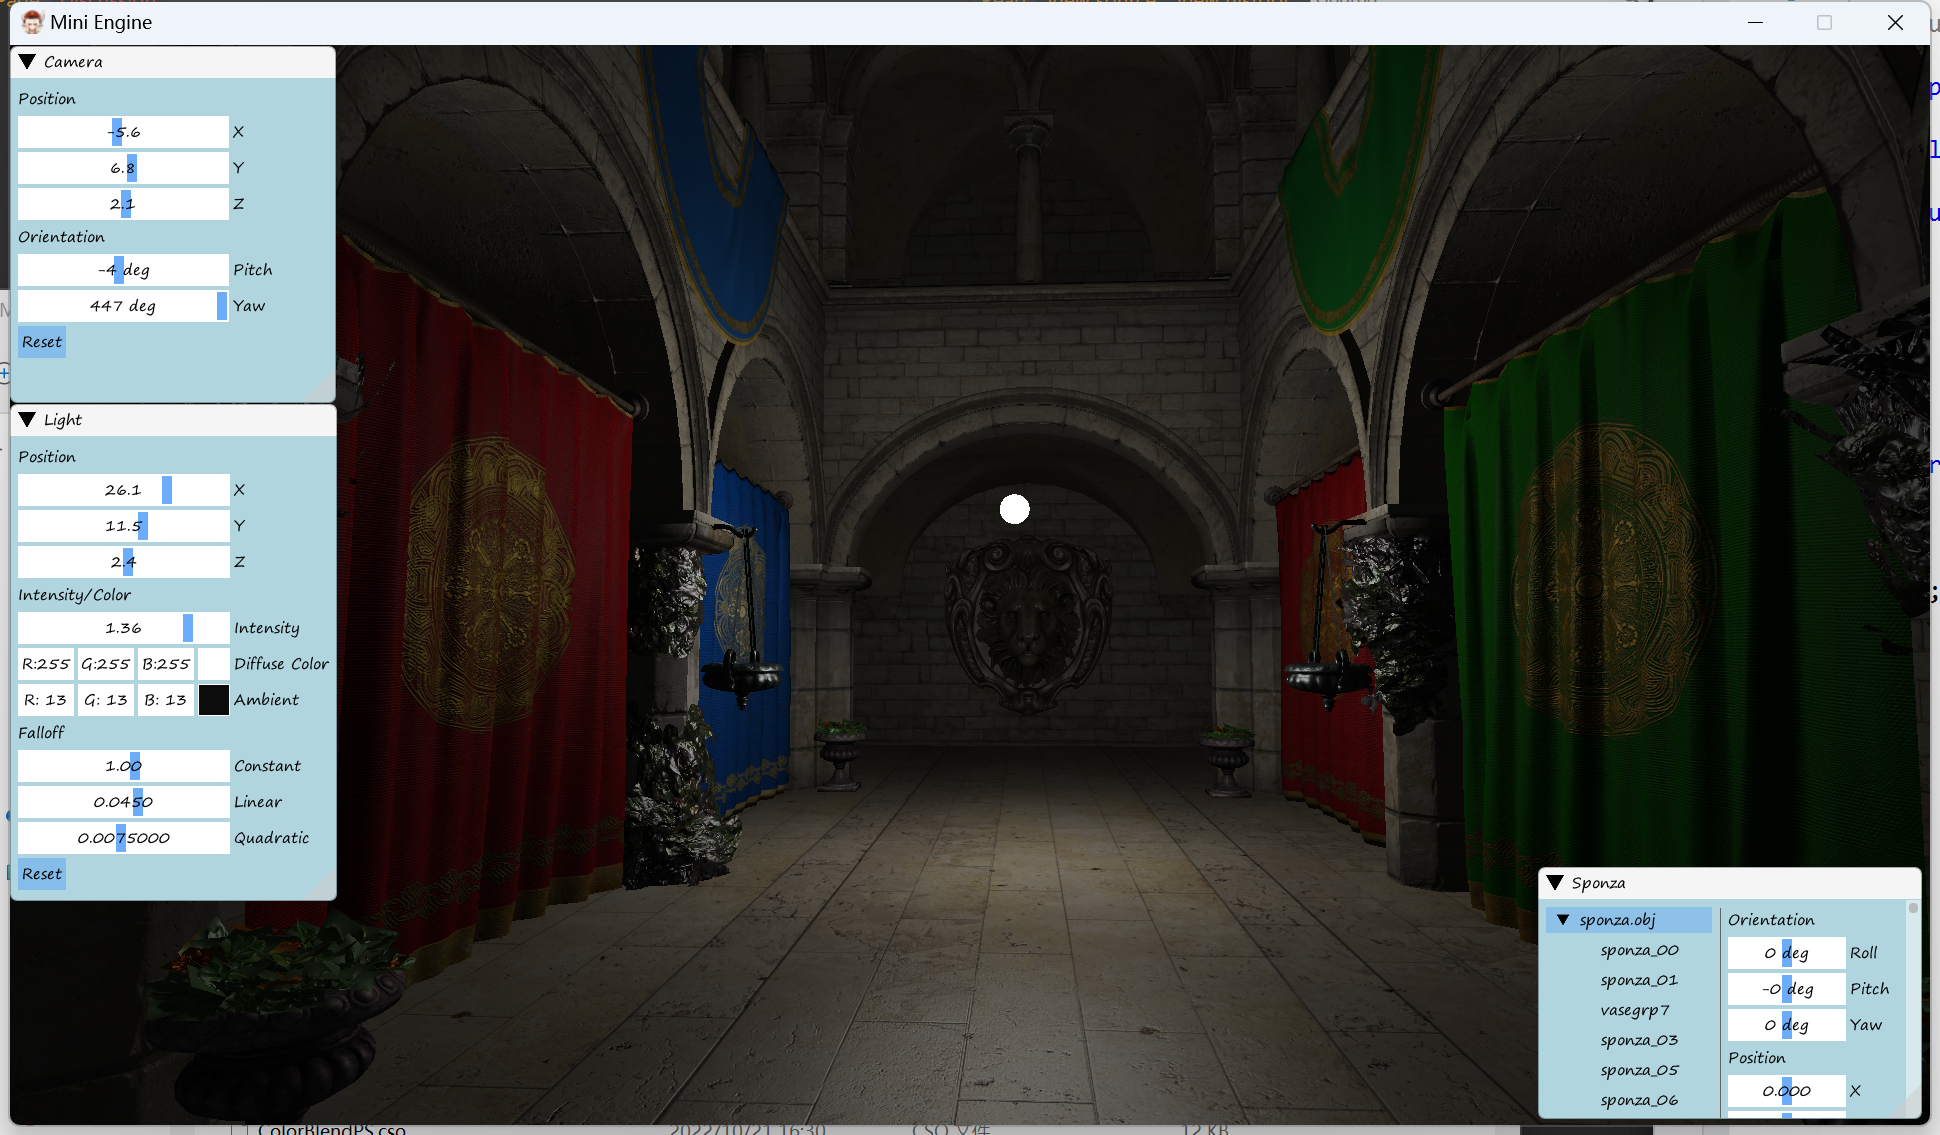
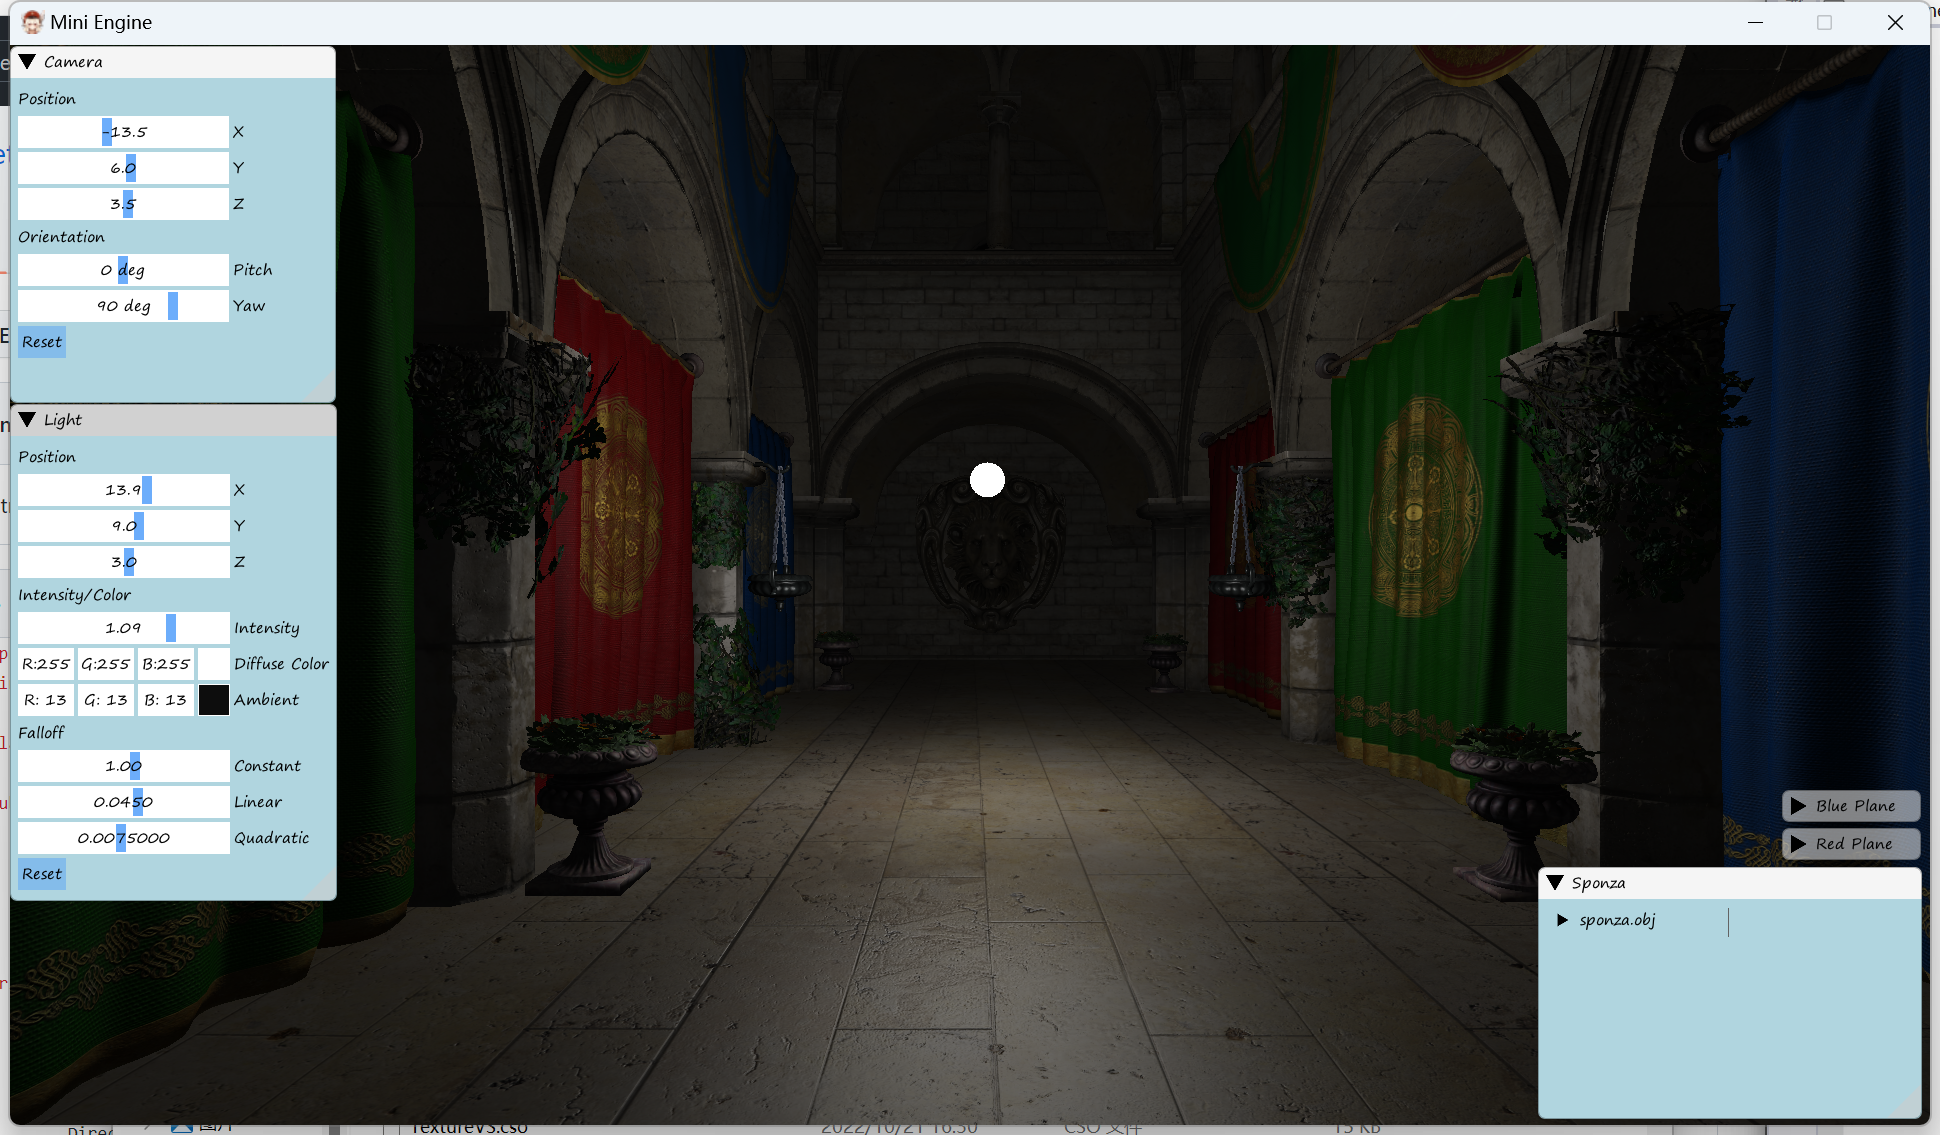
alpha test

diff --git a/_posts/2022-10-27-DirectXBeginner3.md b/_posts/2022-10-27-DirectXBeginner3.md
@@ -99,7 +99,36 @@ tags: [DirectX11]
 
 ## Alpha Blending
 
-- 添加一个 Bindable 类 Blender，保存一个 BlendState
+- 添加一个 Bindable 类 Blender，保存一个 BlendState，使用 CreateBlendState 创建 BlendState，使用 OMSetBlendState 绑定
+- 在绘制完全透明物体时需要做 alpha test，在 Pixel Shader 使用 clip 可以在值为负数时舍弃掉该片段的绘制，这里判断 alpha 小于 0.1 就舍弃掉，为什么不直接设为 1 呢，因为当相机较远时会有一些片段看不到了，这里猜测的原因是因为 MipMap 混合了，所以本来不透明的片段也变成透明的了
+
+```GLSL
+clip(dtex.a < 0.1f ? -1 : 1);
+```
+
+![](../images/2022.10.27/18.png)
+
+- 对于一些双面的物体，需要关掉 Backface Cull，这个阶段需要通过 Rasterizer 来控制，使用 CreateRasterizerState 创建一个 Rasterizer State，如果我们位于背面，那么视线方向和法线方向的 Dot 是大于 0 的，我们需要将 Normal 反向
+- Shader 中也可以使用 #ifdef 
+- 在做 Alpha 混合的时候需要注意绘制顺序，不然就会出现下面红色完全被蓝色遮盖的情况
+
+![](../images/2022.10.27/19.png)
+
+![](../images/2022.10.27/20.png)
+
+- 在之前的实现中，加载图片是很慢的，如果图片资源比较多，那么程序启动需要花费很长一段时间，这里可以用 DirectXTex 来加载纹理提升效率
+
+## Dynamic Constant Buffer
+
+- 作者构建了一个 Dynamic Constant Buffer，这样可以指定 Buffer 的类型和成员参数名，帮助灵活地构建 Buffer，Buffer 其实就是由两部分组成，一个是实际存储地 Bytes，可以有很多类型加上 padding，一个是数据的 layout，这个 layout 我们用一个树结构来表示，可以存储 struct 和 float、bool 等变量
+
+![](../images/2022.10.27/21.png)
+
+
+
+![](../images/2022.10.27/22.png)
+
+
 
 
 
